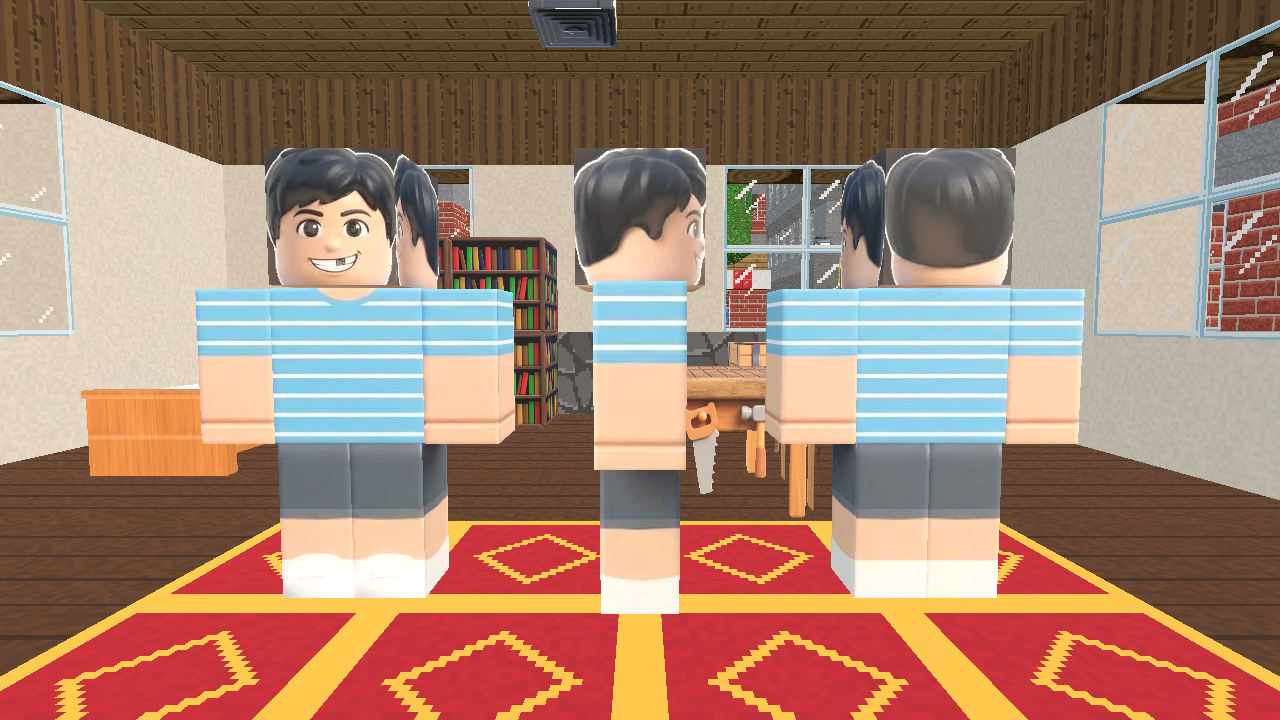
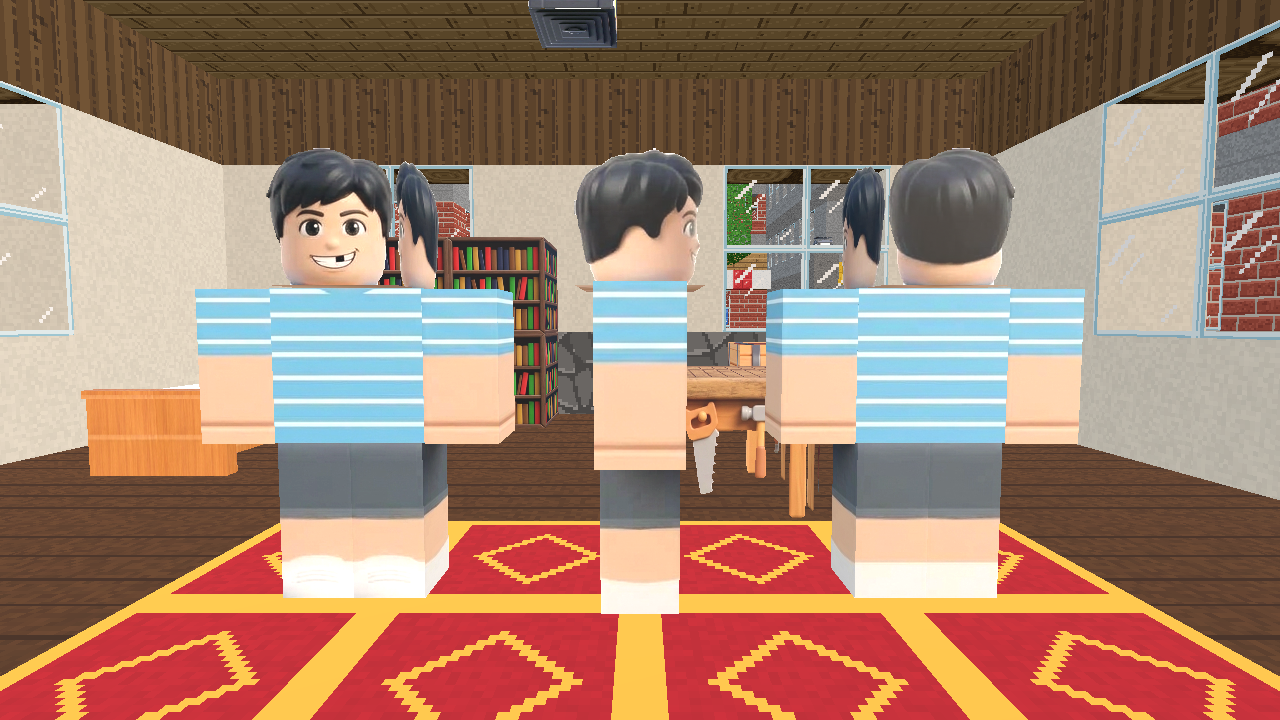
fix: karakter kafaları saç biçiminde (arka plan şeffaf), kenar beyazlıkları
Kafa yüzlerinde yalnızca kenardan bağlı siyah arka plan şeffaf (gözbebekleri
kalır); gövde/kol/bacak kırpımları yuvarlak kenar parlaması dışarıda kalacak
kadar içeriden.

Claude-Session: https://claude.ai/code/session_01VF2h6snkXtCQi9ysLrDNVf

diff --git a/tools/art/build_actor.py b/tools/art/build_actor.py
@@ -4,10 +4,42 @@ Actor.gd bu dosyalar varsa renkli kutular yerine bunları kullanır.
 Çalıştır: python3 tools/art/build_actor.py"""
 import json, os, sys
 from PIL import Image, ImageFilter
+sys.path.insert(0, os.path.dirname(__file__))
+from pack_model_texture import cutout
 
 SRC = os.path.join(os.path.dirname(__file__), "sources")
 OUT = "assets/textures/actors/"
 CELL, PAD = 256, 16
+
+
+def cutout_bg(img, dark=28):
+    """Yalnızca kenardan bağlı siyah arka planı şeffaf yapar (gözbebekleri gibi iç koyuluklar kalır),
+    sonra kenarı 2 piksel içeri alıp şeffaf piksellerin rengini komşu renkle doldurur."""
+    img = img.convert("RGBA")
+    w, h = img.size
+    px = img.load()
+    seen = bytearray(w * h)
+    stack = [(x, y) for x in range(w) for y in (0, h - 1)] + [(x, y) for y in range(h) for x in (0, w - 1)]
+    while stack:
+        x, y = stack.pop()
+        if x < 0 or y < 0 or x >= w or y >= h or seen[y * w + x]:
+            continue
+        seen[y * w + x] = 1
+        r, g, b, _ = px[x, y]
+        if max(r, g, b) >= dark:
+            continue
+        px[x, y] = (r, g, b, 0)
+        stack += [(x + 1, y), (x - 1, y), (x, y + 1), (x, y - 1)]
+    alpha = img.getchannel("A").filter(ImageFilter.MinFilter(5))
+    solid = img.copy()
+    solid.putalpha(alpha)
+    fill = None
+    for radius in (3, 10, 30):
+        blurred = solid.filter(ImageFilter.GaussianBlur(radius))
+        fill = blurred if fill is None else Image.alpha_composite(blurred, fill)
+    out = Image.alpha_composite(fill, solid).convert("RGB")
+    out.putalpha(alpha)
+    return out
 
 
 def fill_black(img, dark=28):
@@ -44,9 +76,14 @@ def build(code, sheet, parts, height=1.8):
             else:
                 box, mirror = spec, False
             x0, y0, x1, y1 = box
-            if x1 - x0 > 60 and y1 - y0 > 60:  # kutu kenarındaki parlamayı at
-                box = (x0 + 6, y0 + 6, x1 - 6, y1 - 6)
-            crop = fill_black(im.crop(box))
+            if p["name"] == "head" and f not in ("top", "bottom"):
+                # Kafa: siyah arka plan şeffaf, kafa saçın gerçek biçiminde görünür.
+                crop = cutout_bg(im.crop(box))
+            else:
+                if x1 - x0 > 60 and y1 - y0 > 60:  # yuvarlak kenardaki parlak şeridi at
+                    k = max(10, min(x1 - x0, y1 - y0) // 9)
+                    box = (x0 + k, y0 + k, x1 - k, y1 - k)
+                crop = fill_black(im.crop(box)).convert("RGBA")
             if mirror:
                 crop = crop.transpose(Image.FLIP_LEFT_RIGHT)
             if rot:
@@ -57,7 +94,7 @@ def build(code, sheet, parts, height=1.8):
     cols = 6
     rows = (len(cells) + cols - 1) // cols
     w = CELL + 2 * PAD
-    atlas = Image.new("RGB", (cols * w, rows * w))
+    atlas = Image.new("RGBA", (cols * w, rows * w))
     for i, c in enumerate(cells):
         x, y = (i % cols) * w, (i // cols) * w
         big = c.resize((w, w), Image.NEAREST)  # dolgu için kenarı uzat
